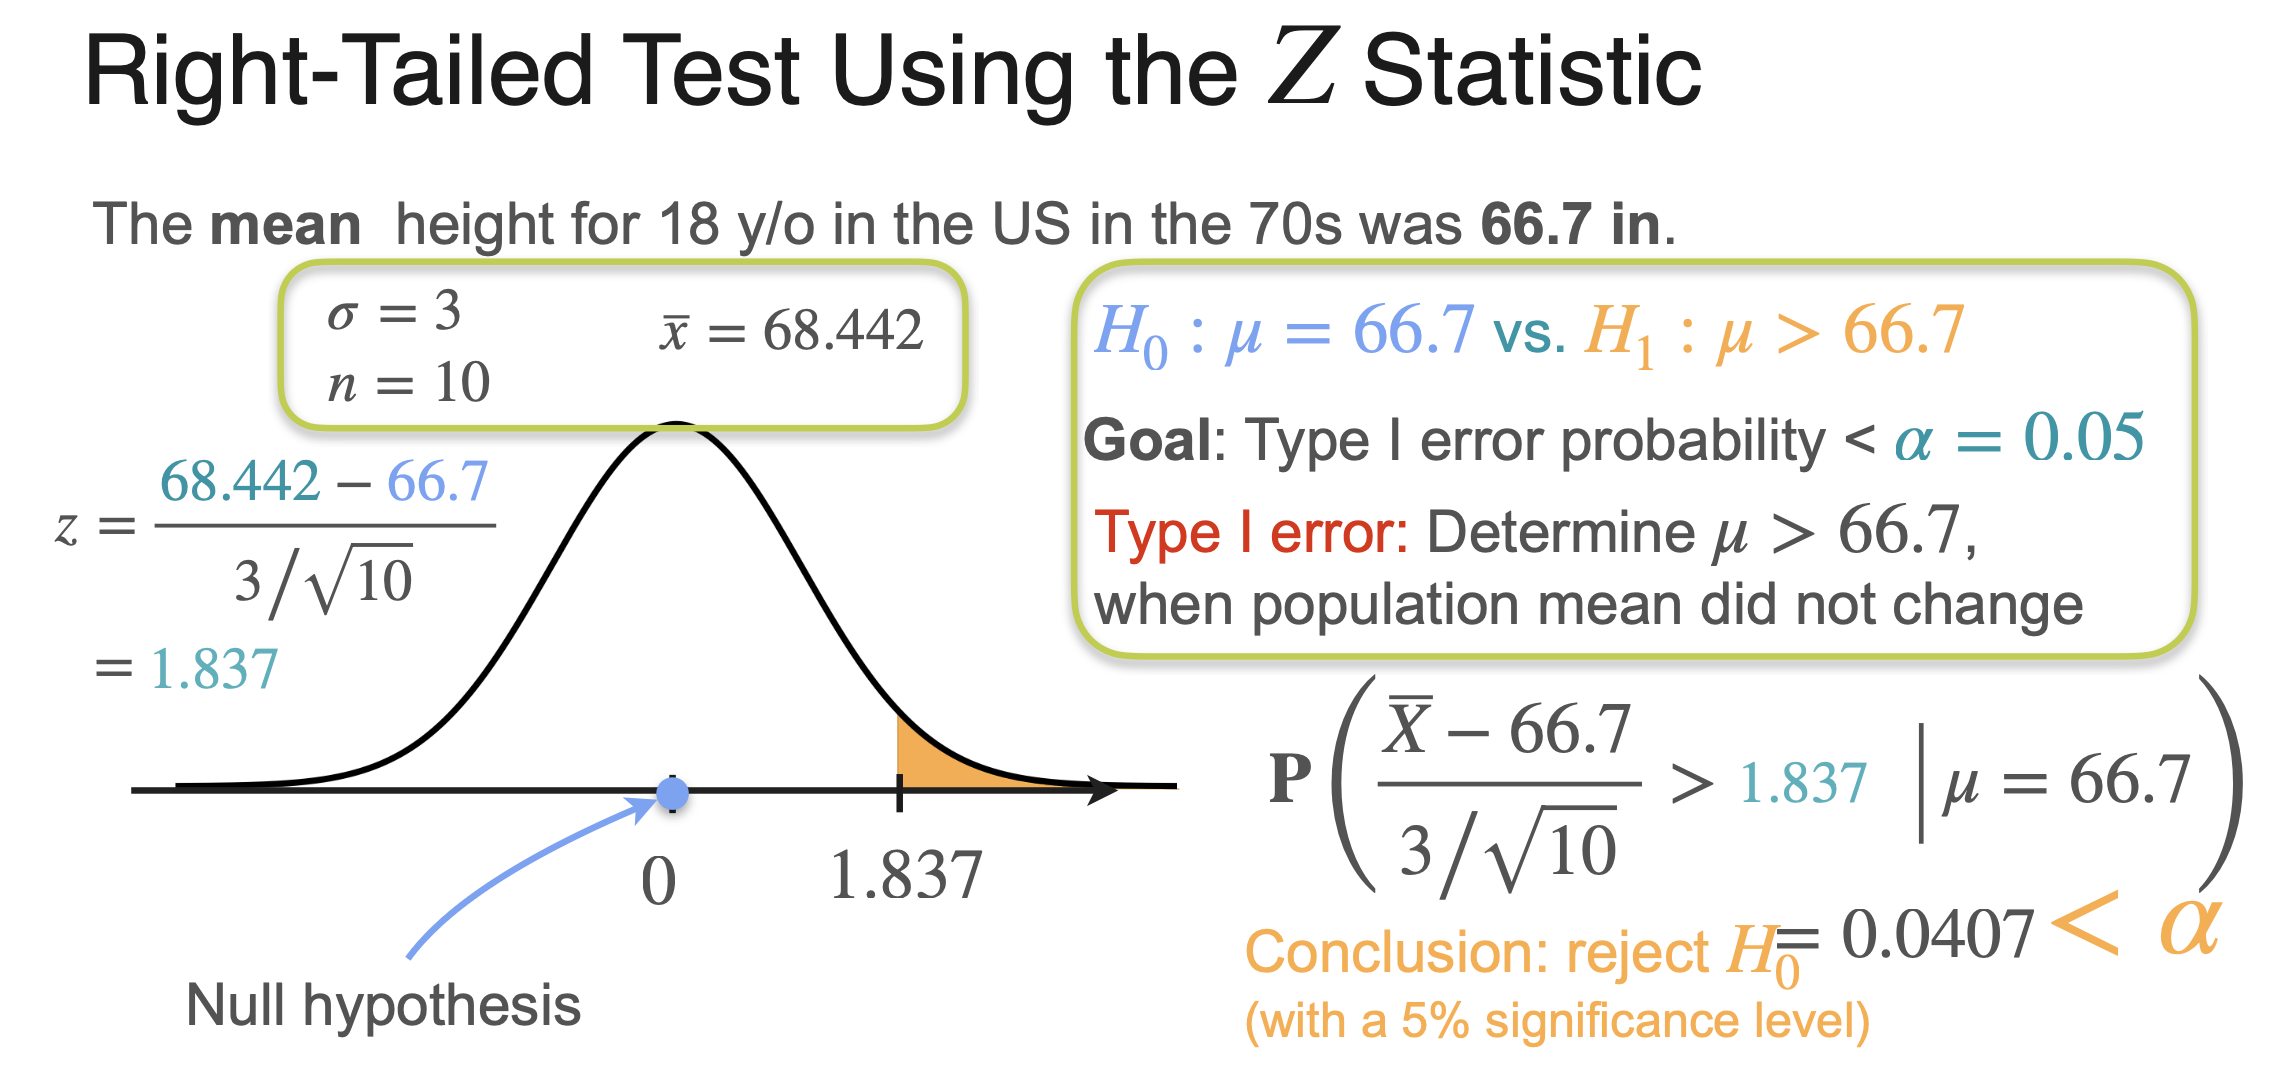
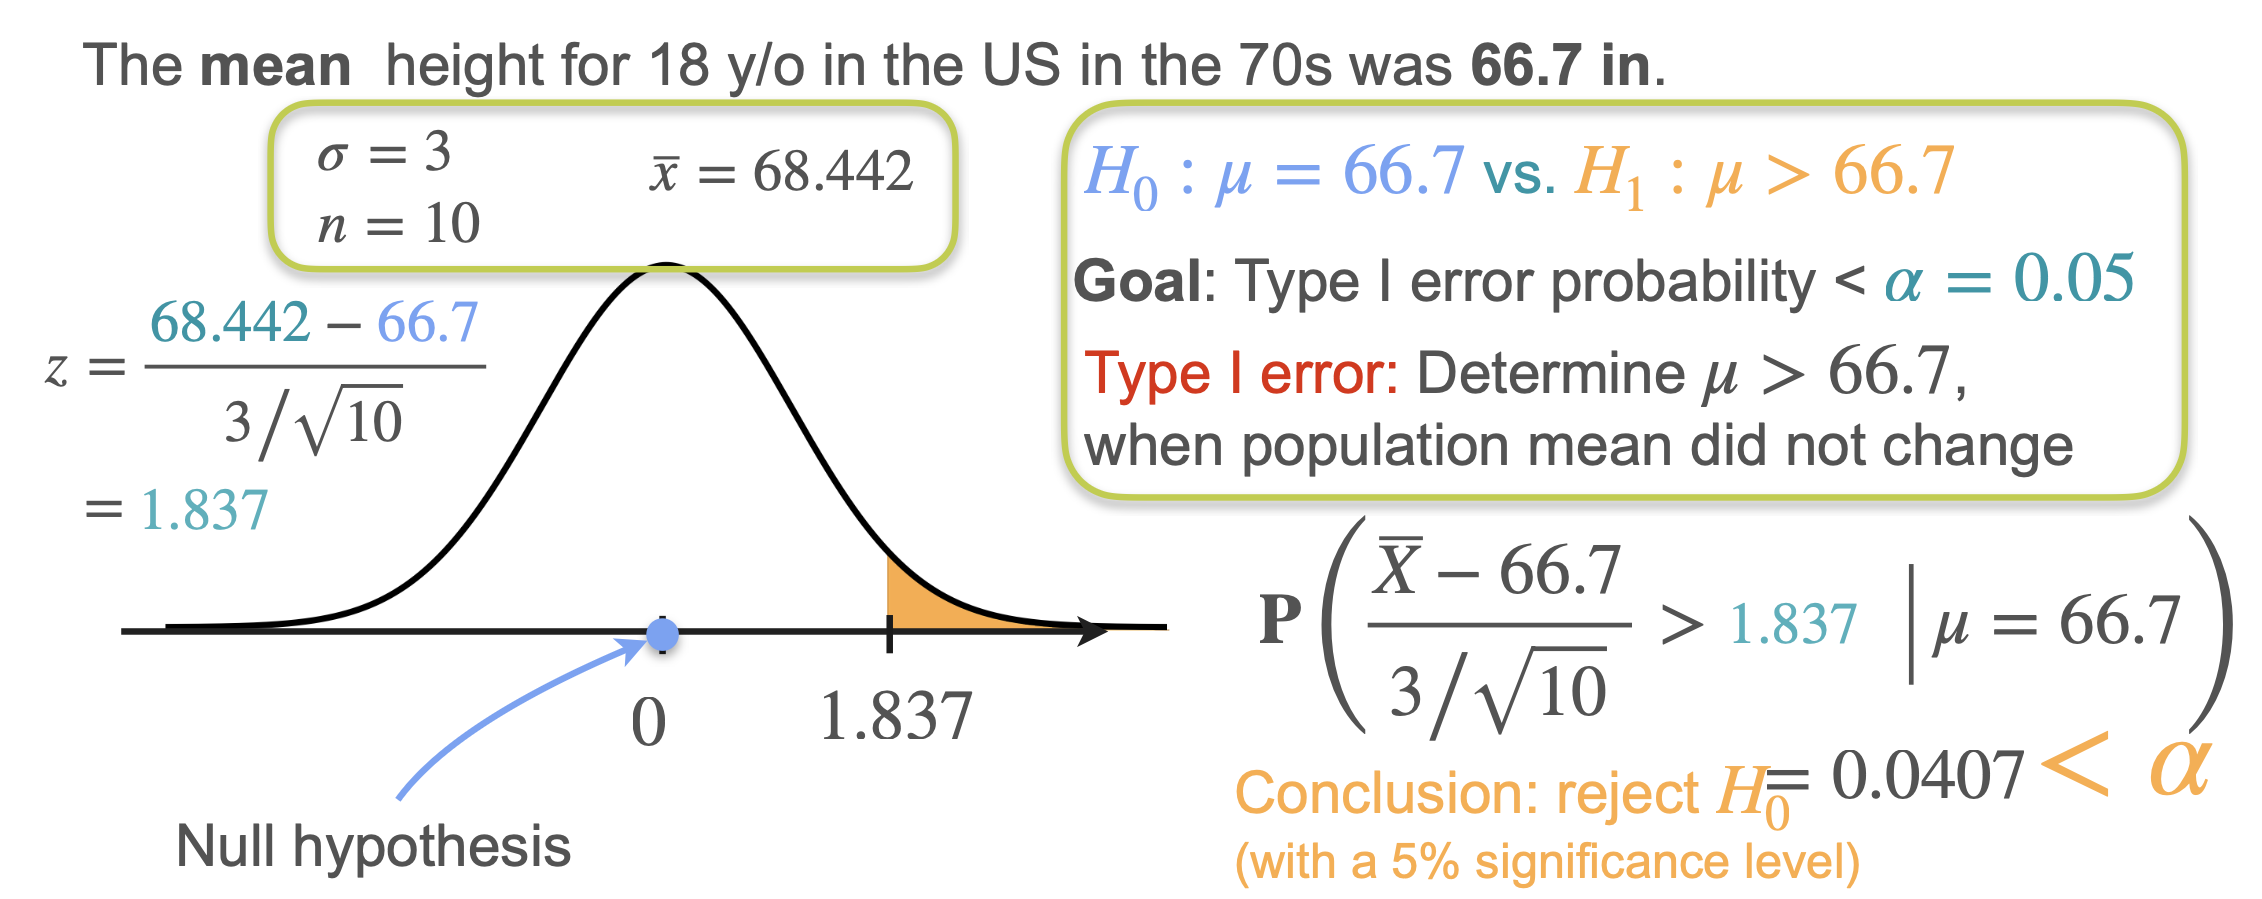
working on hypothesis testing

diff --git a/01_math/04_probability_and_statistics_for_ml_and_ds/08_hypothesis_testing/04_p-value.md b/01_math/04_probability_and_statistics_for_ml_and_ds/08_hypothesis_testing/04_p-value.md
@@ -81,7 +81,7 @@ Using our height data (observed sample mean = 68.442):
 - **p-value** = P(X̄ ≤ 64.252 | μ = 66.7) = 0.0049
 - Since 0.0049 < 0.05 (and even < 0.01), we **reject H₀**
 
-## Alternative Approach: Using the z-Statistic
+### Right-Tailed Test Using the z-Statistic
 
 Instead of working with the sample mean directly, we can standardize it using the **z-statistic**:
 
